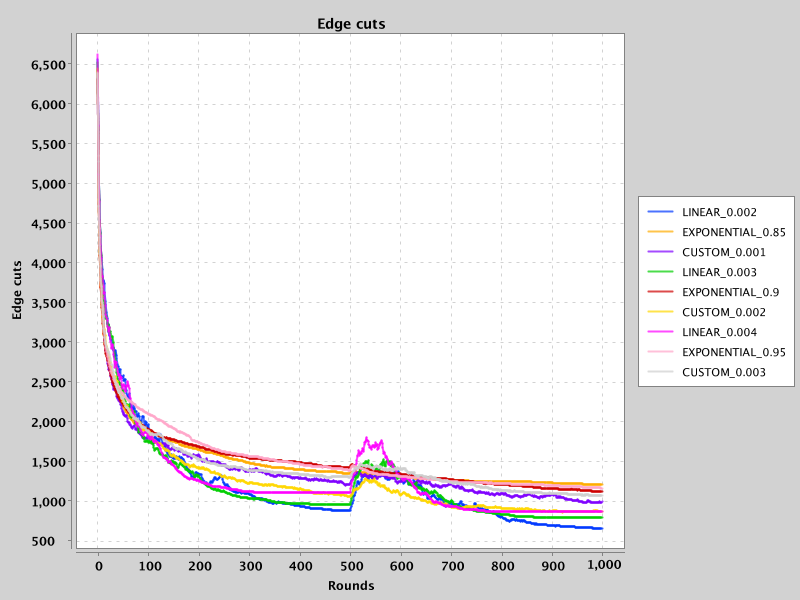
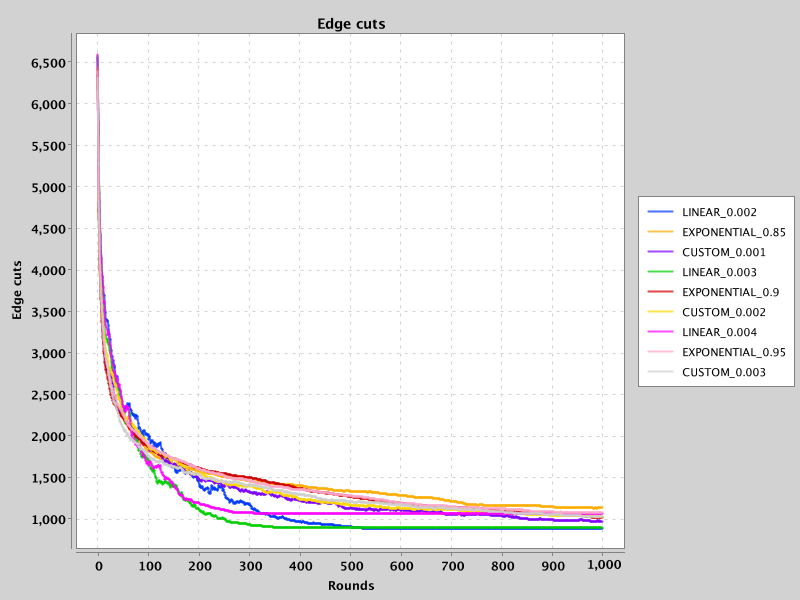
multiple runs with total edgecuts

diff --git a/src/main/java/se/kth/jabeja/Main.java b/src/main/java/se/kth/jabeja/Main.java
@@ -42,7 +42,24 @@ public class Main {
         RandNoGenerator.setSeed(config.getSeed());
 
         //start JaBeJa
-        runJabejas();
+        runJabejas(true);
+
+        //run JaBeJas multiple times and average results
+        //done for performance analysis
+        HashMap<String, Double> totalEdgeCuts = new HashMap<>();
+        for (int i=0; i < 10; i++) {
+            Result[] results = runJabejas(false);
+
+            for (Result result : results) {
+                if (!totalEdgeCuts.containsKey(result.getIdentifier())) {
+                    totalEdgeCuts.put(result.getIdentifier(), 0.0);
+                }
+                totalEdgeCuts.replace(result.getIdentifier(), 
+                    totalEdgeCuts.get(result.getIdentifier()) + result.edgeCut[result.runs-1]);
+            }
+        }
+
+        System.out.println(totalEdgeCuts);
     }
 
     /**
@@ -80,7 +97,7 @@ public class Main {
         return host;
     }
 
-    private void runJabejas() throws IOException {
+    private Result[] runJabejas(boolean displayCharts) throws IOException {
         int runs = 3;
         int annealingTypes = AnnealingType.values().length;
         Jabeja[] hosts = new Jabeja[runs * annealingTypes];
@@ -101,8 +118,11 @@ public class Main {
             hosts[(i*annealingTypes)+1] = initJabeja(AnnealingType.EXPONENTIAL, 0.0, initAlpha + deltaAlpha*i, i*annealingTypes+1);
             hosts[(i*annealingTypes)+2] = initJabeja(AnnealingType.CUSTOM, 0.0, initCustomAlpha + deltaCustomAlpha*i, i*annealingTypes+2);
         }
-        realTimeDisplay = new SwingWrapper<XYChart>(realtimeCharts);
-        realTimeDisplay.displayChartMatrix();
+
+        if (displayCharts) {
+            realTimeDisplay = new SwingWrapper<XYChart>(realtimeCharts);
+            realTimeDisplay.displayChartMatrix();
+        }
 
         // Run in parallel
         Arrays.stream(hosts).parallel().forEach(host -> {
@@ -113,7 +133,11 @@ public class Main {
             }
         });
 
-        printResults(results);
+        if (displayCharts) {
+            printResults(results);
+        }
+
+        return results;
     }
 
 
